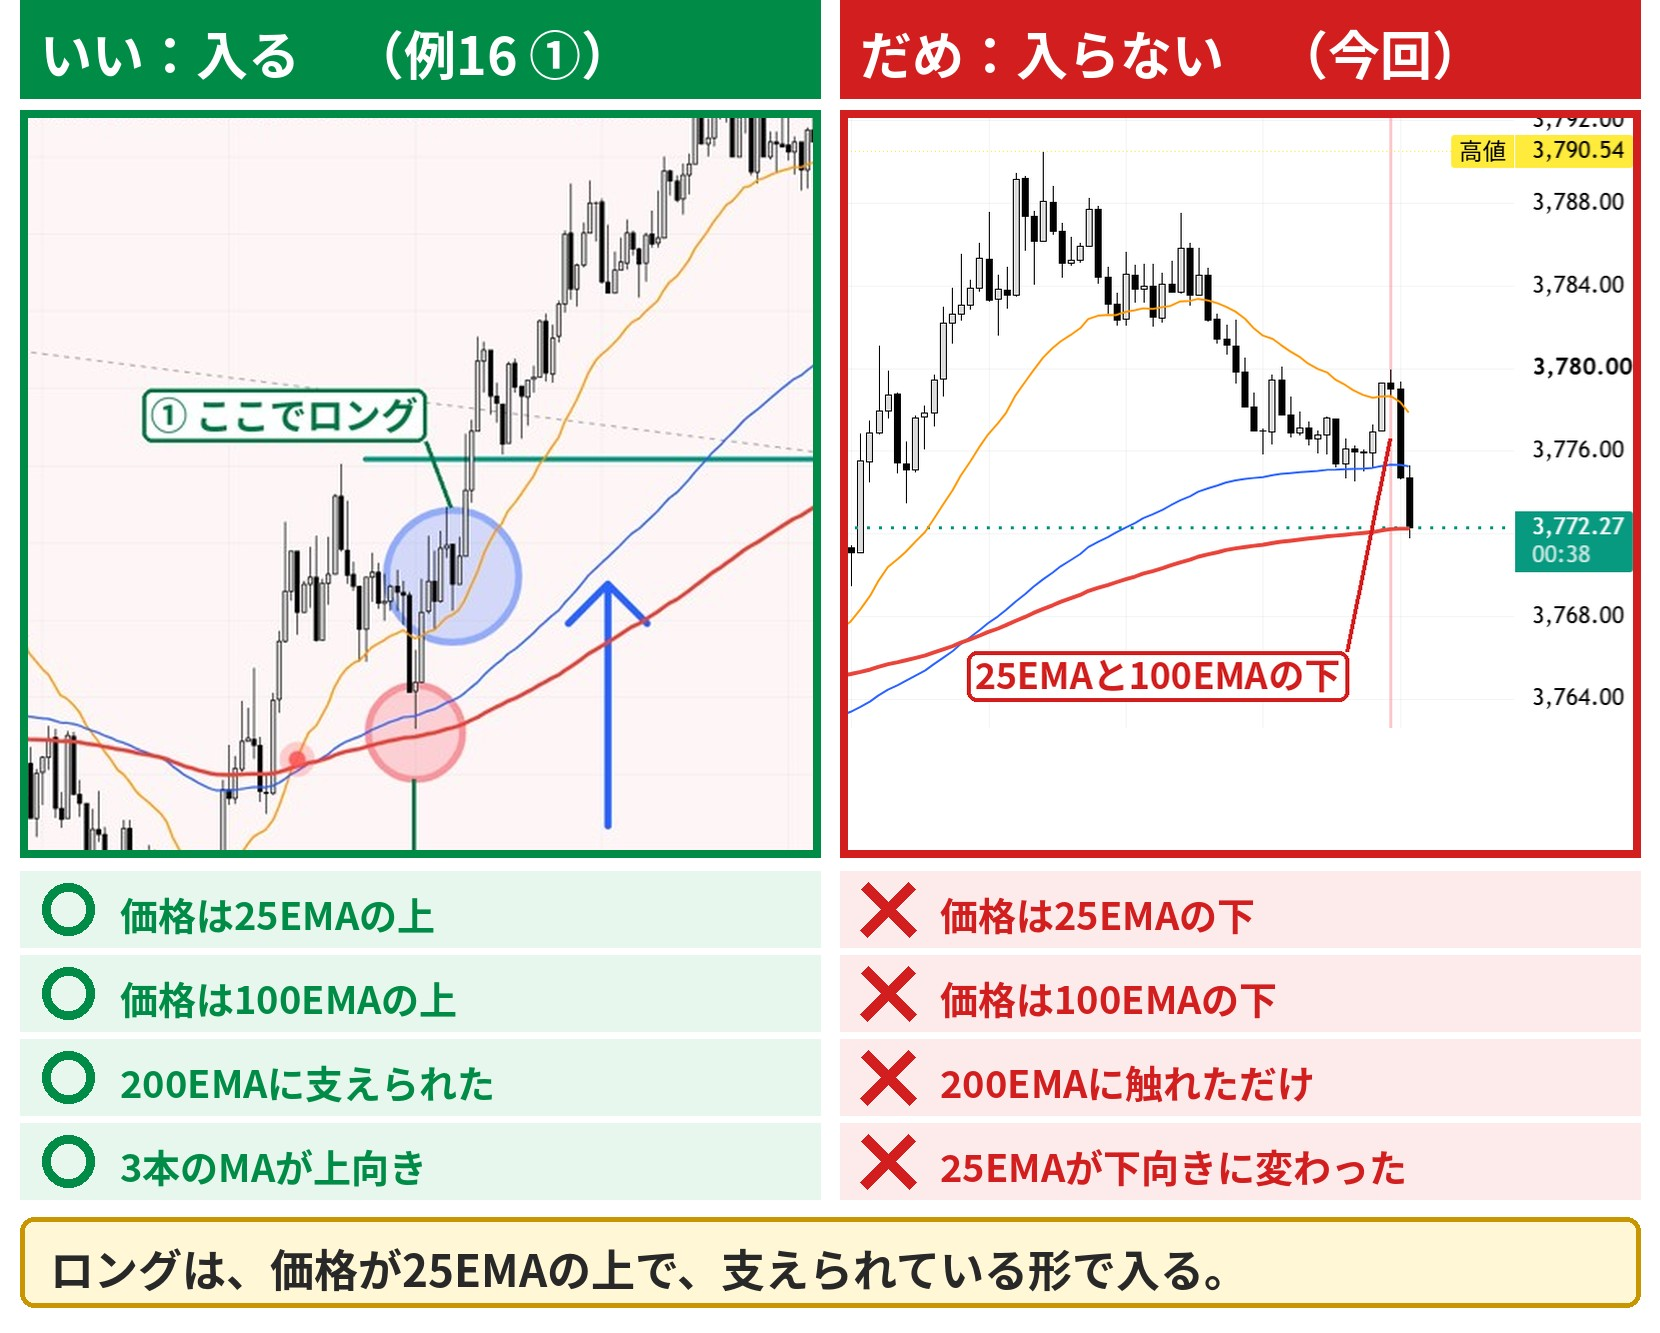
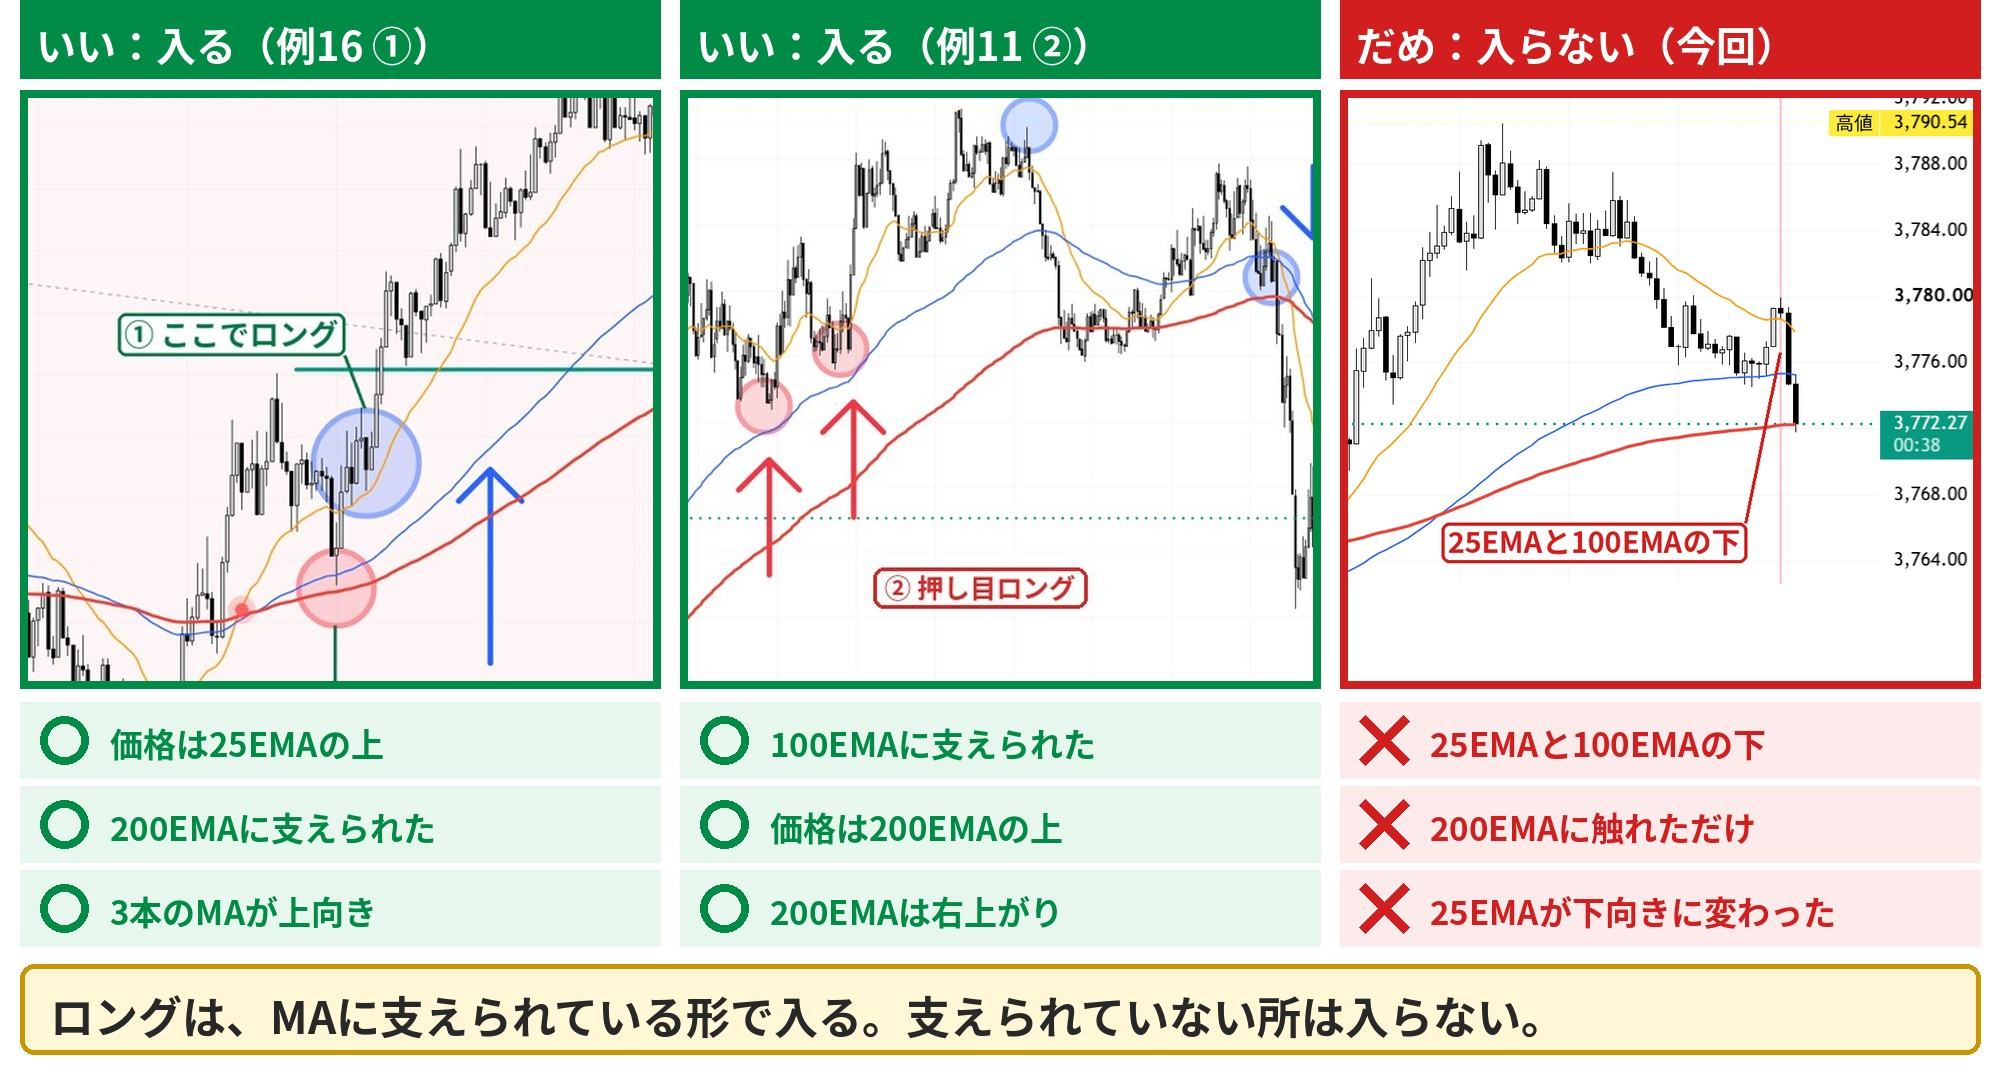
例20: 比較に例11 ②（100EMAで支えられた押し目）を追加
Claude-Session: https://claude.ai/code/session_01HxS9YaEfLR2yPnioVsHz63

Changed region(s): [[0.0, 0.0, 1.0, 1.0], [0.553, 0.3667, 0.5837, 0.3972]]

diff --git a/reversal.html b/reversal.html
@@ -82,7 +82,7 @@ body.lb-open { overflow: hidden; }
   <section class="card big">
     <h2>例20：ロングしなかった所</h2>
     <figure class="pic wide">
-      <a href="methods/rev-nolong-compare.jpg"><img src="methods/rev-nolong-compare.jpg" alt="左：いい（例16 ①。価格は25EMAの上で、200EMAに支えられた）、右：だめ（今回。25EMAと100EMAの下で、200EMAに触れただけ）" loading="lazy"></a>
+      <a href="methods/rev-nolong-compare.jpg"><img src="methods/rev-nolong-compare.jpg" alt="左と中：いい（例16 ①、例11 ②。MAに支えられた）、右：だめ（今回。25EMAと100EMAの下で、200EMAに触れただけ）" loading="lazy"></a>
     </figure>
     <ul class="cap3">
       <li><b>赤の縦線では、ロングしなかった。</b>前なら入っていた。</li>
